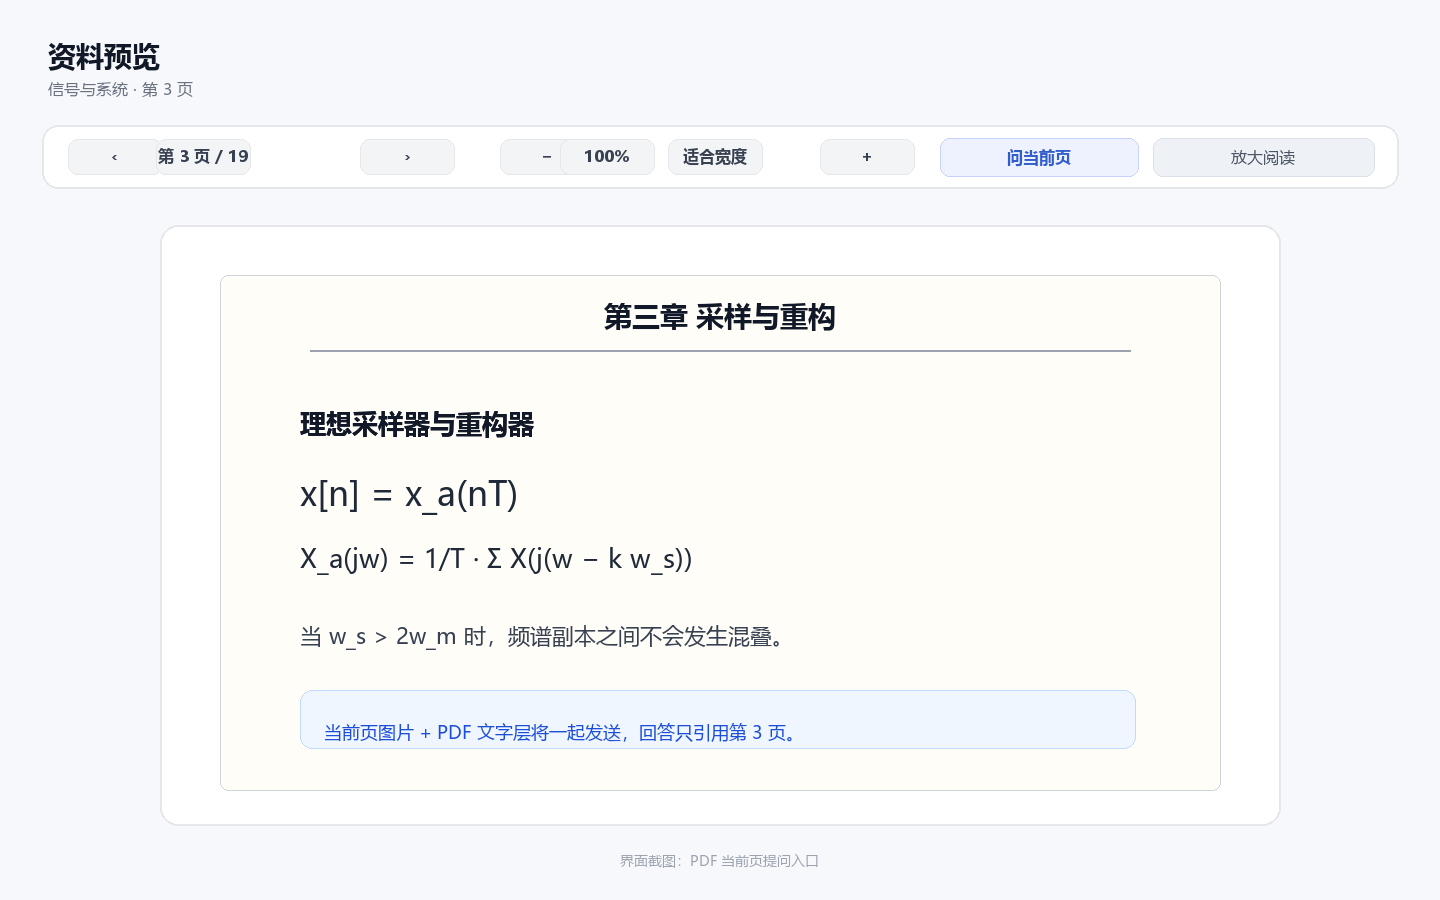
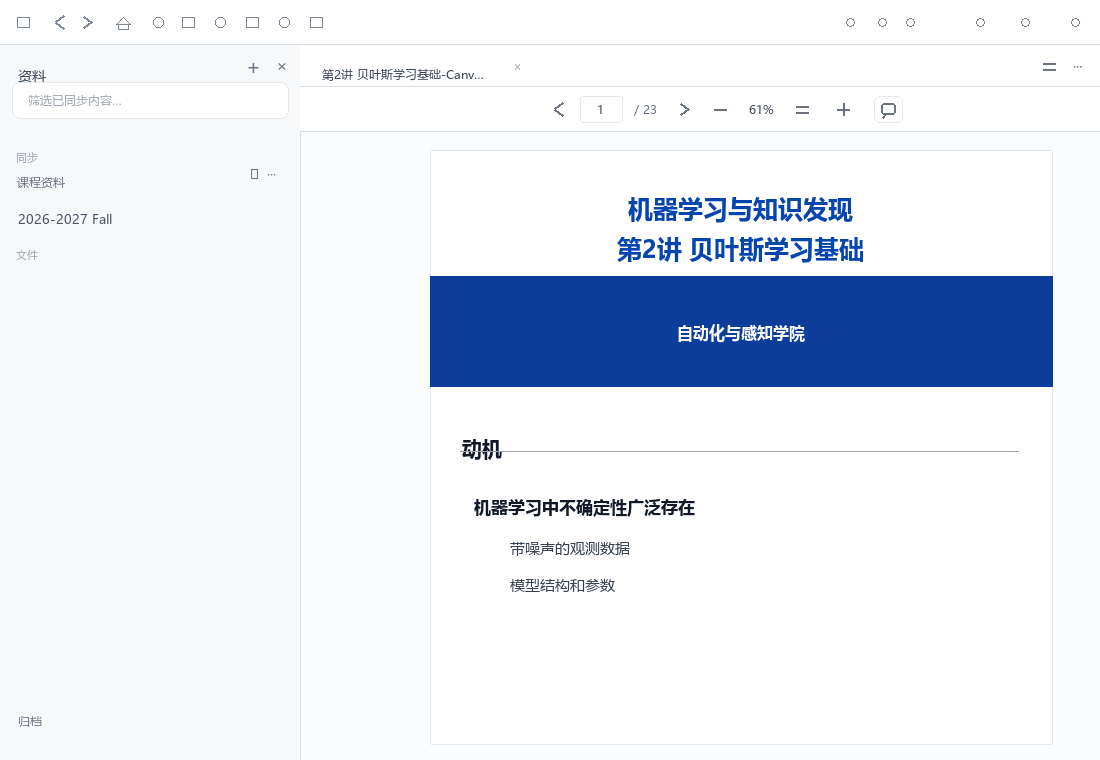
style: align study question controls with Dela UI

diff --git a/src/renderer/content/preview/PdfReader.tsx b/src/renderer/content/preview/PdfReader.tsx
@@ -307,9 +307,10 @@ export function PdfReader({
         </Button>
         {onAskPage && (
           <Button
-            size="sm"
-            variant="secondary"
+            size="icon-sm"
+            variant="ghost"
             aria-label="询问当前 PDF 页面"
+            title={asking ? '准备当前页…' : '询问当前页'}
             disabled={!pageCount || asking}
             onClick={() =>
               void askCurrentPage().catch((error) =>
@@ -322,7 +323,6 @@ export function PdfReader({
             }
           >
             <MessageCircle />
-            {asking ? '准备中…' : '问当前页'}
           </Button>
         )}
       </div>
